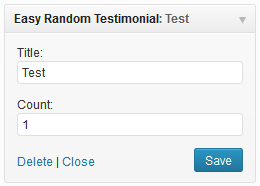
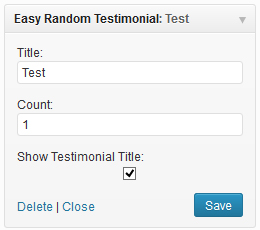
Adds ability to display the Testimonial Title via either shortcode and the sidebar widget.  Updates screenshot to show new widget option.  Updates readme with new instructions.
git-svn-id: https://plugins.svn.wordpress.org/easy-testimonials/trunk@775440 b8457f37-d9ea-0310-8a92-e5e31aec5664

diff --git a/easy-testimonials.php b/easy-testimonials.php
@@ -4,7 +4,7 @@ Plugin Name: Easy Testimonials
 Plugin URI: http://easy-testimonials.com
 Description: Easy Testimonials - Provides custom post type, shortcode, sidebar widget, and other functionality for testimonials.
 Author: Illuminati Karate
-Version: 1.4.2
+Version: 1.4.3
 Author URI: http://illuminatikarate.com
 
 This file is part of Easy Testimonials.
@@ -137,6 +137,7 @@ function outputRandomTestimonial($atts){
 		'word_limit' => false,
 		'body_class' => 'testimonial_body',
 		'author_class' => 'testimonial_author',
+		'show_title' => 0,
 		'short_version' => false,
 	), $atts ) );
 	
@@ -176,9 +177,14 @@ function outputRandomTestimonial($atts){
 		if(isset($testimonials[$rand])){
 			if(!$short_version){	
 				?><blockquote class="easy_testimonial">		
+					
 					<?php if ($show_thumbs) {
 						echo $testimonials[$rand]['image'];
 					} ?>
+					
+					<?php if ($show_title) {
+						echo '<p class="easy_testimonial_title">' . get_the_title($postid) . '</p>';
+					} ?>	
 					
 					<?php if(get_option('meta_data_position')): ?>
 						<?php if(strlen($testimonials[$rand]['client'])>0 || strlen($testimonials[$rand]['position'])>0 ): ?>
@@ -219,105 +225,13 @@ function UniqueRandomNumbersWithinRange($min, $max, $quantity) {
     return array_slice($numbers, 0, $quantity);
 }
 
-//submit testimonial shortcode
-function submitTestimonialForm($atts){	
-	// process form submissions
-	$inserted = false;
-	
-	if( 'POST' == $_SERVER['REQUEST_METHOD'] && !empty( $_POST['action'] )) {
-		//only process submissions from logged in users
-		if ( is_user_logged_in() ) {
-			if (isset ($_POST['the-title'])) {
-				$title =  $_POST['the-title'];
-			} else {
-				echo 'Please enter a title';
-			}
-			
-			if (isset ($_POST['the-body'])) {
-				$body = $_POST['the-body'];
-			} else {
-				echo 'Please enter the content';
-			}
-			
-			$tags = $_POST['the-post_tags'];
-			
-			$post = array(
-				'post_title'	=> $title,
-				'post_content'	=> $body,
-				'post_category'	=> array(1),  // custom taxonomies too, needs to be an array
-				'tags_input'	=> $tags,
-				'post_status'	=> 'pending',
-				'post_type'	=> 'testimonial'
-			);
-			
-			wp_insert_post($post);
-			
-			$inserted = true;
-	
-			// do the wp_insert_post action to insert it
-			do_action('wp_insert_post', 'wp_insert_post'); 			
-		} else {
-			echo "You must be logged in to perform this action.";
-		}
-	}	
-	
-	$content = '';
-	
-	if(isValidKey()){	
-		ob_start();
-		
-		if ( is_user_logged_in() ):
-			if($inserted){
-				echo "Success!";
-			} else { ?>
-			<!-- New Post Form -->
-			<div id="postbox">
-				<form id="new_post" name="new_post" method="post" action="/blog/easy-testimonials-test/">
-					<p>
-						<label for="the-title">Title</label><br />
-						<input type="text" id="the-title" value="" tabindex="1" size="20" name="the-title" />
-						<span class="description">This is for your reference, when viewing the Testimonials in the Dashboard.</span>
-					</p>
-					<p>
-						<label for="the-name">Name</label><br />
-						<input type="text" id="the-name" value="" tabindex="1" size="20" name="the-name" />
-						<span class="description">This is the name of the entity leaving the Testimonial.  This will be displayed, along with Body Content and Other.</span>
-					</p>
-					<p>
-						<label for="the-other">Position / Web Address / Other</label><br />
-						<input type="text" id="the-other" value="" tabindex="1" size="20" name="the-other" />
-						<span class="description">This is other identifying information of the entity leaving the Testimonial.  This will be displayed, along with Body Content and Name.</span>
-					</p>
-					<p>
-						<label for="the-body">Body Content</label><br />
-						<textarea id="the-body" tabindex="3" name="the-body" cols="50" rows="6"></textarea>
-						<span class="description">This is the body area of the Testimonial.</span>
-					</p>
-					<p align="right"><input type="submit" value="Submit Draft" tabindex="6" id="submit" name="submit" /></p>
-					<input type="hidden" name="action" value="post" />
-					<?php wp_nonce_field( 'new-post' ); ?>
-				</form>
-			</div>
-			<!--// New Post Form -->
-		<?php } ?>
-		<?php else: ?>
-			<p>You must <a href="<?php echo wp_login_url( get_permalink() ); ?>" title="Login">login</a> to submit testimonials.</p>
-		<?php endif;
-		
-		
-		$content = ob_get_contents();
-		ob_end_clean();	
-	}
-	
-	return $content;
-}
-
 //output all testimonials
 function outputTestimonials($atts){ 
 	
 	//load shortcode attributes into an array
 	extract( shortcode_atts( array(
 		'testimonials_link' => get_option('testimonials_link'),
+		'show_title' => 0,
 		'count' => -1
 	), $atts ) );
 	
@@ -351,9 +265,12 @@ function outputTestimonials($atts){
 	
 		if($i < $count || $count == -1){
 	
-			?><blockquote class="easy_testimonial">			
+			?><blockquote class="easy_testimonial">		
 				<?php if ($show_thumbs) {
 					echo $testimonial['image'];
+				} ?>		
+				<?php if ($show_title) {
+					echo '<p class="easy_testimonial_title">' . get_the_title($postid) . '</p>';
 				} ?>	
 				<?php if(get_option('meta_data_position')): ?>
 					<?php if(strlen($testimonial['client'])>0 || strlen($testimonial['position'])>0 ): ?>
@@ -395,7 +312,6 @@ function easy_testimonials_register_widgets() {
 //create shortcodes
 add_shortcode('random_testimonial', 'outputRandomTestimonial');
 add_shortcode('testimonials', 'outputTestimonials');
-//add_shortcode('submit_testimonial', 'submitTestimonialForm');
 
 //add CSS
 add_action( 'wp_head', 'ik_setup_css' );

diff --git a/random_testimonial_widget.php b/random_testimonial_widget.php
@@ -26,12 +26,14 @@ class randomTestimonialWidget extends WP_Widget
 	}
 
 	function form($instance){
-		$instance = wp_parse_args( (array) $instance, array( 'title' => '', 'count' => 1 ) );
+		$instance = wp_parse_args( (array) $instance, array( 'title' => '', 'count' => 1, 'show_title' => 0 ) );
 		$title = $instance['title'];
 		$count = $instance['count'];
+		$show_title = $instance['show_title'];
 		?>
 			<p><label for="<?php echo $this->get_field_id('title'); ?>">Title: <input class="widefat" id="<?php echo $this->get_field_id('title'); ?>" name="<?php echo $this->get_field_name('title'); ?>" type="text" value="<?php echo attribute_escape($title); ?>" /></label></p>
 			<p><label for="<?php echo $this->get_field_id('count'); ?>">Count: <input class="widefat" id="<?php echo $this->get_field_id('count'); ?>" name="<?php echo $this->get_field_name('count'); ?>" type="text" value="<?php echo attribute_escape($count); ?>" /></label></p>
+			<p><label for="<?php echo $this->get_field_id('show_title'); ?>">Show Testimonial Title: </label><input class="widefat" id="<?php echo $this->get_field_id('show_title'); ?>" name="<?php echo $this->get_field_name('show_title'); ?>" type="checkbox" value="1" <?php if($show_title){ ?>checked="CHECKED"<?php } ?>/></p>
 		<?php
 	}
 
@@ -39,6 +41,7 @@ class randomTestimonialWidget extends WP_Widget
 		$instance = $old_instance;
 		$instance['title'] = $new_instance['title'];
 		$instance['count'] = $new_instance['count'];
+		$instance['show_title'] = $new_instance['show_title'];
 		return $instance;
 	}
 
@@ -48,12 +51,13 @@ class randomTestimonialWidget extends WP_Widget
 		echo $before_widget;
 		$title = empty($instance['title']) ? ' ' : apply_filters('widget_title', $instance['title']);
 		$count = empty($instance['count']) ? 1 : $instance['count'];
+		$show_title = empty($instance['show_title']) ? 1 : $instance['show_title'];
 
 		if (!empty($title)){
 			echo $before_title . $title . $after_title;;
 		}
 		
-		echo outputRandomTestimonial(array('testimonials_link' => get_option('testimonials_link'), 'count' => $count));
+		echo outputRandomTestimonial(array('testimonials_link' => get_option('testimonials_link'), 'count' => $count, 'show_title' => $show_title));
 
 		echo $after_widget;
 	} 
